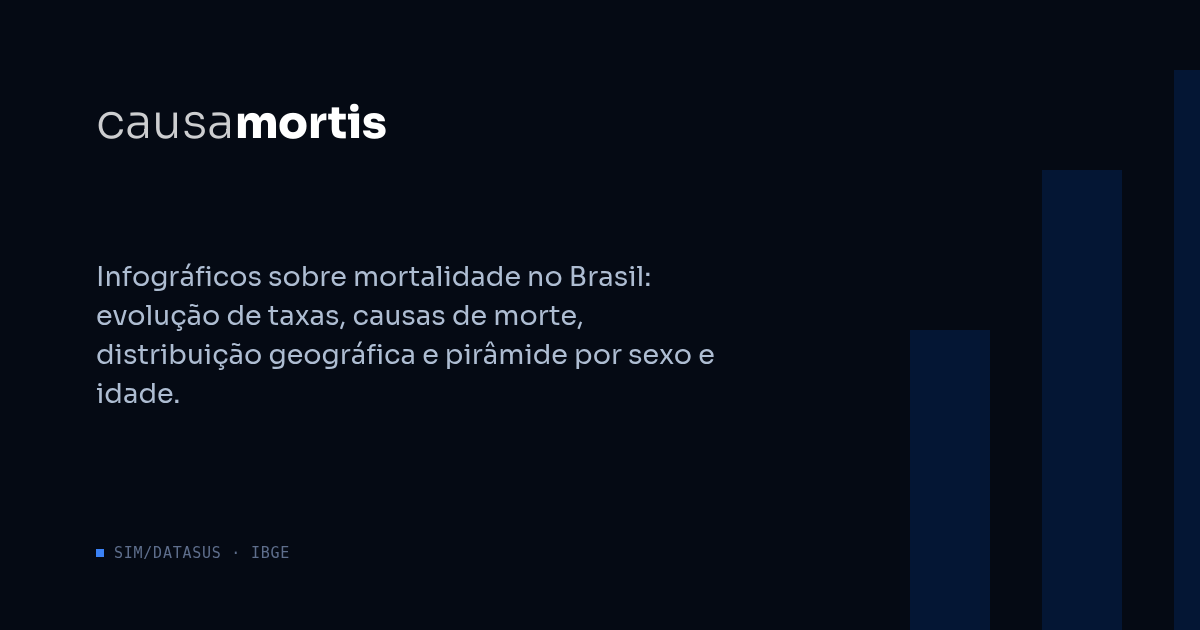
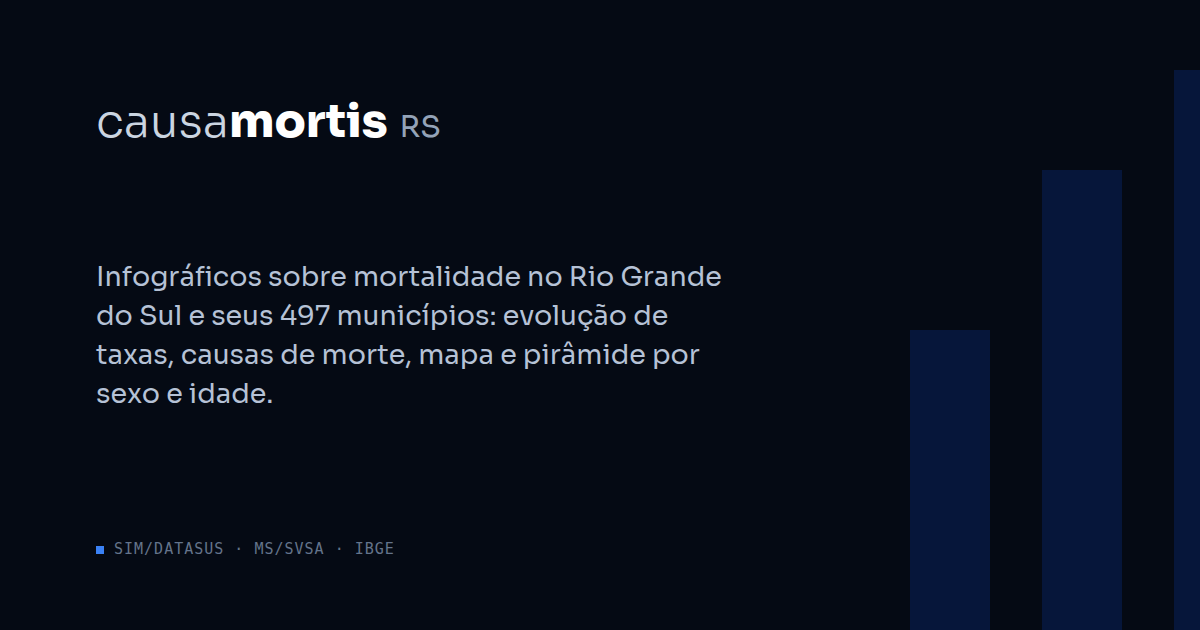
Publica no GitHub Pages: base path configurável, workflow e og-image do RS
Claude-Session: https://claude.ai/code/session_01Cem7BxMpzBfMRHUaC3VXHH

diff --git a/src/lib/mortality/data.ts b/src/lib/mortality/data.ts
@@ -1,4 +1,5 @@
 import type { FeatureCollection } from "geojson";
+import { withBase } from "../base-path";
 import manifest from "./data-manifest.json";
 import type {
   OverallTable,
@@ -20,7 +21,7 @@ import type {
   CoverageTable,
 } from "./types";
 
-const BASE_URL = "/data/mortality";
+const BASE_URL = withBase("/data/mortality");
 const BY_LOCATION_URL = `${BASE_URL}/by-location/${manifest.mortalityVersion}`;
 
 const cache = new Map<string, Promise<unknown>>();
@@ -112,7 +113,7 @@ export const fetchPopulationByAgeForLocation = (
 let geoJsonPromise: Promise<FeatureCollection> | null = null;
 
 export function fetchMunicipalitiesGeoJson(): Promise<FeatureCollection> {
-  geoJsonPromise ??= fetch(`/data/geo/${manifest.geoFile}`)
+  geoJsonPromise ??= fetch(withBase(`/data/geo/${manifest.geoFile}`))
     .then((response) => response.json() as Promise<FeatureCollection>)
     .catch((error: unknown) => {
       geoJsonPromise = null;

diff --git a/src/lib/nav.ts b/src/lib/nav.ts
@@ -1,3 +1,5 @@
+import { withBase } from "./base-path";
+
 export interface SiteNavLink {
   href: string;
   label: string;
@@ -6,10 +8,10 @@ export interface SiteNavLink {
 }
 
 export const siteNavLinks: SiteNavLink[] = [
-  { href: "/", label: "Explorar" },
-  { href: "/release", label: "Release" },
-  { href: "/notas", label: "Notas" },
-  { href: "/dados", label: "Dados" },
+  { href: withBase("/"), label: "Explorar" },
+  { href: withBase("/release"), label: "Release" },
+  { href: withBase("/notas"), label: "Notas" },
+  { href: withBase("/dados"), label: "Dados" },
   {
     href: "https://github.com/causa-mortis-brasil",
     label: "Projeto original",

diff --git a/src/lib/mortality/dimensions.ts b/src/lib/mortality/dimensions.ts
@@ -1,6 +1,7 @@
+import { withBase } from "../base-path";
 import type { Dimensions } from "./types";
 
-const DIMENSIONS_URL = "/data/mortality/dimensions.json";
+const DIMENSIONS_URL = withBase("/data/mortality/dimensions.json");
 
 let dimensionsPromise: Promise<Dimensions> | null = null;
 

diff --git a/src/lib/base-path.ts b/src/lib/base-path.ts
@@ -1,0 +1,5 @@
+const BASE = import.meta.env.BASE_URL.replace(/\/$/, "");
+
+export function withBase(path: string): string {
+  return `${BASE}${path}`;
+}

diff --git a/README.md b/README.md
@@ -1,5 +1,7 @@
 # Causa Mortis RS
 
+**Site:** https://lucascunha1979.github.io/causa-mortis-rs/
+
 Réplica geográfica do painel [Causa Mortis](https://causamortis.net) (Zanchetta Jr., Weise e Veloso, licença MIT) para o Rio Grande do Sul e seus 497 municípios, construída com [Astro](https://astro.build) e [ECharts](https://echarts.apache.org/). Mesma lógica, mesmas regras de classificação e os mesmos gráficos do original; muda só a dimensão geográfica, e os dados foram extraídos de novo, diretamente das fontes oficiais.
 
 ## Como citar
@@ -34,3 +36,7 @@ npm run build
 ```
 
 Este painel tem finalidade didática e de divulgação. Para análise técnica e formulação de política pública, recomenda-se a extração dos dados diretamente no DataSUS.
+
+## Publicação
+
+O site é publicado no GitHub Pages pelo workflow `.github/workflows/deploy-pages.yml` a cada push na `main`. O build recebe `SITE_URL` e `BASE_PATH` do próprio Pages (o site fica em `/causa-mortis-rs/`); todos os caminhos internos passam por `withBase()` (`src/lib/base-path.ts`). Sem essas variáveis, o build continua servindo na raiz, como no original.
